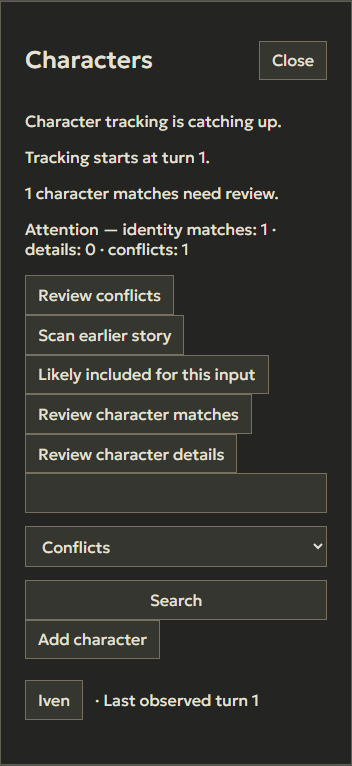
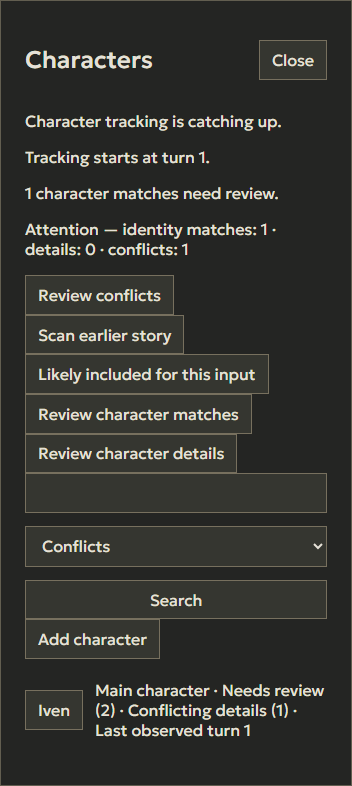
Fix character review counts and refresh races

diff --git a/apps/web-next/src/characters-workspace.ts b/apps/web-next/src/characters-workspace.ts
@@ -21,7 +21,7 @@ export function createCharactersWorkspace(document: Document, generationActive: 
   const node = <K extends keyof HTMLElementTagNameMap>(tag: K, text = "") => { const el = document.createElement(tag); el.textContent = text; return el; };
   const button = (text: string, action: () => void, disabled = false) => { const el = node("button", text); el.type = "button"; el.disabled = disabled; el.addEventListener("click", action); return el; };
   const discard = () => !(editor?.dirty || profileEditor?.form.dirty) || (document.defaultView?.confirm("Discard unsaved character changes?") ?? false);
-  function close() { if (!discard() || editor?.saving || profileEditor?.saving) return; openEpoch++; editor = null; profileEditor = null; reviewing = false; session.close(); operationKeys.clear(); dialog.close(); focus?.focus(); }
+  function close() { if (editor?.saving || profileEditor?.saving || !discard()) return; openEpoch++; editor = null; profileEditor = null; reviewing = false; session.close(); operationKeys.clear(); dialog.close(); focus?.focus(); }
   function render() {
     if (!state || !dialog.open || reviewing || profileEditor) return;
     if (editor) { if (state.changedWhileEditing && !dialog.querySelector("[data-stale]")) { const notice = node("p", "This character changed while you were editing. Your draft is preserved; compare the latest before saving."); notice.dataset.stale = ""; dialog.prepend(notice); } return; }
@@ -84,7 +84,7 @@ export function createCharactersWorkspace(document: Document, generationActive: 
     const roster = node("ul"); for (const person of state.characters) {
       const item = node("li"), attention = state.attention[person.id];
       const facts = [person.profile["story.role"], characterProvenanceLabel(person), person.pinned ? "Pinned" : "", person.ignored ? "Ignored" : "",
-        attention?.review ? "Needs review" : "", attention?.conflict ? "Conflicting details" : "", `Last observed turn ${person.lastObservedTurn}`,
+        attention?.review ? `Needs review${attention.reviewCount != null ? ` (${attention.reviewCount})` : ""}` : "", attention?.conflict ? `Conflicting details${attention.conflictCount != null ? ` (${attention.conflictCount})` : ""}` : "", `Last observed turn ${person.lastObservedTurn}`,
         person.lastMentionedTurn != null ? `Last mentioned turn ${person.lastMentionedTurn}` : ""].filter(Boolean).join(" · ");
       item.append(button(person.name, () => session.select(person.id)), node("span", ` ${facts}`)); roster.append(item);
     }
@@ -175,34 +175,36 @@ export function createCharactersWorkspace(document: Document, generationActive: 
   /** Edit the main character in the sheet through the existing revisioned profile endpoint. */
   function renderProfileEditor(campaign: string, profile: ProtagonistProfile, message = "") {
     const epoch = openEpoch;
-    dialog.replaceChildren(); const head = node("header"); head.append(node("h2", `Edit ${profile.name}`), button("Close", close)); dialog.append(head);
+    dialog.classList.remove("characters-sheet-layout"); dialog.replaceChildren(); const head = node("header"); const closeButton = button("Close", close); head.append(node("h2", `Edit ${profile.name}`), closeButton); dialog.append(head);
     dialog.append(node("p", `Revision ${profile.revision}. Profile edits apply to future turns only.`));
     const form = node("form"), fields = node("div"); fields.className = "characters-profile-fields";
     const editing = { form: createCharacterProfileForm(fields, profile), saving: false }; profileEditor = editing;
     const status = node("p", message); status.setAttribute("aria-live", "polite");
     const save = node("button", "Save character profile"); save.type = "submit"; save.disabled = generationActive();
-    const cancel = button("Cancel", () => { if (!discard()) return; profileEditor = null; render(); });
+    const cancel = button("Cancel", () => { if (editing.saving || !discard()) return; profileEditor = null; render(); });
+    const setBusy = (busy: boolean) => { editing.saving = busy; save.disabled = busy || generationActive(); cancel.disabled = busy; closeButton.disabled = busy; const reload = form.querySelector<HTMLButtonElement>("[data-load-latest]"); if (reload) reload.disabled = busy; fields.querySelectorAll<HTMLInputElement | HTMLTextAreaElement>("input, textarea").forEach(control => { control.disabled = busy; }); };
     form.append(fields, status, save, cancel); dialog.append(form);
     form.addEventListener("submit", async event => {
       event.preventDefault(); if (profileEditor !== editing || editing.saving) return;
       if (generationActive()) { status.textContent = "Story generation is active. Your edits are kept; save when it finishes."; return; }
-      editing.saving = true; save.disabled = true; status.textContent = "Saving…";
+      setBusy(true); status.textContent = "Saving…";
       try {
         const saved = await saveProfile(campaign, editing.form.update());
-        if (epoch !== openEpoch || state.campaignId !== campaign) return;
+        if (epoch !== openEpoch || state.campaignId !== campaign || profileEditor !== editing) return;
         protagonist = { name: saved.name, profile: saved.profile, revision: saved.revision }; profileEditor = null;
         onProfileSaved(campaign); render();
       } catch (error) {
         if (epoch !== openEpoch || profileEditor !== editing) return;
-        editing.saving = false; save.disabled = generationActive();
+        setBusy(false);
         const code = (error as { statusCode?: number; status?: number }).statusCode ?? (error as { status?: number }).status;
         status.textContent = code === 409 ? "The main character changed elsewhere. Your edits are kept here; load the latest version to start again from it."
           : "Could not save the main character. Your edits are kept.";
         if (code === 409 && !form.querySelector("[data-load-latest]")) {
           const reload = button("Load latest version", async () => {
-            if (!discard()) return;
-            try { const latest = await getProfile(campaign); if (epoch !== openEpoch) return; protagonist = latest; renderProfileEditor(campaign, latest, "Loaded the latest version."); }
-            catch { status.textContent = "Could not load the latest version. Try again."; }
+            if (editing.saving || !discard()) return;
+            setBusy(true); reload.disabled = true;
+            try { const latest = await getProfile(campaign); if (epoch !== openEpoch || profileEditor !== editing || state.campaignId !== campaign) return; protagonist = latest; renderProfileEditor(campaign, latest, "Loaded the latest version."); }
+            catch { if (epoch !== openEpoch || profileEditor !== editing) return; setBusy(false); reload.disabled = false; status.textContent = "Could not load the latest version. Try again."; }
           }); reload.dataset.loadLatest = ""; form.append(reload);
         }
       }
@@ -210,6 +212,6 @@ export function createCharactersWorkspace(document: Document, generationActive: 
     fields.querySelector<HTMLElement>("input, textarea")?.focus();
   }
   dialog.addEventListener("cancel", event => { event.preventDefault(); close(); });
-  return { open(campaignId: string, returnFocus?: HTMLElement | null) { openEpoch++; protagonist = null; protagonistLoading = false; focus = returnFocus ?? document.activeElement as HTMLElement | null; editor = null; reviewing = false; dialog.showModal(); session.open(campaignId); }, dispose() { openEpoch++; session.dispose(); dialog.remove(); } };
+  return { open(campaignId: string, returnFocus?: HTMLElement | null) { openEpoch++; protagonist = null; protagonistLoading = false; focus = returnFocus ?? document.activeElement as HTMLElement | null; editor = null; profileEditor = null; reviewing = false; dialog.showModal(); session.open(campaignId); }, dispose() { openEpoch++; session.dispose(); dialog.remove(); } };
 }
 

diff --git a/packages/client-web/src/characters-workspace-session.ts b/packages/client-web/src/characters-workspace-session.ts
@@ -1,4 +1,4 @@
-import { DEFAULT_RECENT_WINDOW_TURNS, matchesLocalCharacterFilter } from "@infinite-quest/client-core";
+import { NexusApiError, DEFAULT_RECENT_WINDOW_TURNS, matchesLocalCharacterFilter } from "@infinite-quest/client-core";
 import type { CharacterFilter, CastDetail, CastCharacter, CharactersWorkspaceStatus } from "@infinite-quest/contracts";
 
 export interface CharactersWorkspaceState<Draft = unknown> {
@@ -8,7 +8,7 @@ export interface CharactersWorkspaceState<Draft = unknown> {
   /** Accepted-turn window the server used for the Recent filter. */
   recentWindow: number;
   /** Server-reported review/conflict markers by character ID; absent on older servers. */
-  attention: Record<string, { review: boolean; conflict: boolean }>;
+  attention: Record<string, { review: boolean; conflict: boolean; reviewCount?: number | undefined; conflictCount?: number | undefined }>;
   selectedId: string | null;
   detail: CastDetail | null;
   draft: Draft | null;
@@ -20,7 +20,7 @@ export interface CharactersWorkspaceState<Draft = unknown> {
 export interface CharactersWorkspaceSessionOptions<Draft> {
   api: {
     workspaceStatus(campaignId: string, signal?: AbortSignal): Promise<CharactersWorkspaceStatus>;
-    list(campaignId: string, input: { query: string; filter: CharacterFilter; cursor?: string; expectedRevision?: number; expectedTurnNumber?: number; expectedTimelineRevision?: number }, signal?: AbortSignal): Promise<{ revision: number; boundary: { turnNumber: number; timelineRevision: number }; characters: CastCharacter[]; nextCursor: string | null; recentWindow?: number | undefined; attention?: { characterId: string; review: boolean; conflict: boolean }[] | undefined }>;
+    list(campaignId: string, input: { query: string; filter: CharacterFilter; cursor?: string; expectedRevision?: number; expectedTurnNumber?: number; expectedTimelineRevision?: number }, signal?: AbortSignal): Promise<{ revision: number; boundary: { turnNumber: number; timelineRevision: number }; characters: CastCharacter[]; nextCursor: string | null; recentWindow?: number | undefined; attention?: { characterId: string; review: boolean; conflict: boolean; reviewCount?: number | undefined; conflictCount?: number | undefined }[] | undefined }>;
     detail(campaignId: string, id: string, signal?: AbortSignal): Promise<CastDetail>;
   };
   schedule?: { set(callback: () => void, delay: number): unknown; clear(handle: unknown): void; visible(): boolean; onVisibilityChange(callback: () => void): () => void };
@@ -55,10 +55,16 @@ export function createCharactersWorkspaceSession<Draft = unknown>({ api, schedul
         for (let attempt = 0; ; attempt++) {
           let cursor: string | undefined, consistent = true; characters = []; attention = {};
           do {
-            const page = await api.list(campaignId, { query, filter: status.legacyServer ? "all" : filter, ...(cursor ? status.legacyServer ? { cursor } : { cursor, expectedRevision: status.revision, expectedTurnNumber: status.boundary.turnNumber, expectedTimelineRevision: status.boundary.timelineRevision } : {}) }, abort.signal);
+            let page: Awaited<ReturnType<typeof api.list>>;
+            try {
+              page = await api.list(campaignId, { query, filter: status.legacyServer ? "all" : filter, ...(cursor ? status.legacyServer ? { cursor } : { cursor, expectedRevision: status.revision, expectedTurnNumber: status.boundary.turnNumber, expectedTimelineRevision: status.boundary.timelineRevision } : {}) }, abort.signal);
+            } catch (error) {
+              if (!(error instanceof NexusApiError) || error.domainCode !== "cast_revision_conflict") throw error;
+              consistent = false; break;
+            }
             if (!sameBoundary(page)) { consistent = false; break; }
             recentWindow = page.recentWindow ?? DEFAULT_RECENT_WINDOW_TURNS;
-            for (const item of page.attention ?? []) attention[item.characterId] = { review: item.review, conflict: item.conflict };
+            for (const item of page.attention ?? []) attention[item.characterId] = { review: item.review, conflict: item.conflict, reviewCount: item.reviewCount, conflictCount: item.conflictCount };
             characters.push(...page.characters); cursor = page.nextCursor ?? undefined;
           } while (cursor);
           if (consistent) break;

diff --git a/tests/e2e/campaign-cast.e2e.test.ts b/tests/e2e/campaign-cast.e2e.test.ts
@@ -241,7 +241,7 @@ async function fixture(page: Page, deferredDetails = false, conflictFixture = fa
       const matches = characters.filter((c) => (url.searchParams.get("filter") !== "conflicts" || c.id === (conflictFixture ? candidateId : protagonistId)) && [c.name, ...c.aliases].some((name: string) => name.toLowerCase().includes(query)));
       const cursor = url.searchParams.get("cursor"), offset = cursor ? matches.findIndex((person) => person.id === cursor) + 1 : 0;
       const page = matches.slice(offset, offset + 2);
-      return send(route, { revision, boundary, characters: page,
+      return send(route, { revision, boundary, characters: page, attention: page.filter((person) => person.id === protagonistId).map((person) => ({ characterId: person.id, review: true, conflict: true, reviewCount: 2, conflictCount: 1 })),
         nextCursor: offset + page.length < matches.length ? page.at(-1).id : null, capabilities: { castEditing: enabled } });
     }
     if (path === "/api/v1/session") return send(route, { user: { id: worldId, displayName: "Fixture owner", settings: { autoSubmitTurnChoices: true, continuousReading: false, defaultTurnControlStyle: "flexible_action" } }, authentication: "deferred" });
@@ -482,6 +482,7 @@ for (const surface of ["legacy", "next"] as const) for (const width of [1440, 39
   await expect(dialog).toContainText("conflicts: 1");
   await dialog.getByRole("button", { name: "Review conflicts", exact: true }).click();
   await expect(dialog.getByRole("button", { name: "Iven", exact: true })).toBeVisible();
+  if (surface === "next") await expect(dialog).toContainText("Needs review (2)");
   if (screenshotRoot) await dialog.screenshot({ path: `${screenshotRoot}/roster-${surface}-${width}.png` });
   await dialog.getByRole("button", { name: "Likely included for this input", exact: true }).click();
   await dialog.getByRole("button", { name: "Refresh estimate", exact: true }).click(); await expect(dialog).toContainText("Estimate at turn 1");
@@ -500,10 +501,24 @@ for (const surface of ["legacy", "next"] as const) for (const width of [1440, 39
   await expect(profile.getByText("Profile JSON", { exact: true })).toHaveCount(0);
   if (screenshotRoot) await profile.screenshot({ path: `${screenshotRoot}/profile-${surface}-${width}.png` });
   await profile.getByLabel("Pronouns", { exact: true }).fill("they/them");
+  let releaseSave: (() => void) | undefined;
+  if (surface === "next" && width === 1440) {
+    const gate = new Promise<void>(resolve => { releaseSave = resolve; });
+    await page.route(`**/character-profile`, async route => {
+      if (route.request().method() !== "PUT") return route.fallback();
+      await gate; return route.fallback();
+    });
+  }
   await profile.getByRole("button", { name: /Save character profile/i }).click();
+  if (releaseSave) {
+    await expect(profile.getByRole("button", { name: "Cancel", exact: true })).toBeDisabled();
+    await expect(profile.getByRole("button", { name: "Close", exact: true })).toBeDisabled();
+    await expect(profile.getByLabel("Pronouns", { exact: true })).toBeDisabled();
+    releaseSave();
+  }
   await expect.poll(() => api.profileWrites.length).toBe(1);
   expect(api.profileWrites[0].profile.identity.pronouns).toBe("they/them");
-  if (surface === "next") await expect(dialog.getByRole("button", { name: "Edit main character", exact: true })).toBeVisible();
+  if (surface === "next") { await expect(dialog.getByRole("button", { name: "Edit main character", exact: true })).toBeVisible(); await expect(dialog).toContainText("they/them"); }
 });
 
 for (const surface of ["legacy", "next"] as const) test(`shared review and undo ${surface}`, async ({ page }) => {

diff --git a/packages/database/src/campaign-cast-repository.ts b/packages/database/src/campaign-cast-repository.ts
@@ -530,10 +530,19 @@ export function createPostgresCampaignCastRepository(pool: DatabasePool, options
             AND n.correction_revision=(p.source->>'narrationRevision')::integer
             AND encode(digest(n.effective_narration,'sha256'),'hex')=p.source->>'sourceHash'`,
         [scope.campaignId, scope.ownerUserId, boundary.timelineRevision, boundary.turnNumber])).rows;
-        const reviewIds = new Set<string>(), conflictIds = new Set<string>(); let identities = 0, details = 0, conflicts = 0;
+        const reviewIds = new Set<string>(), conflictIds = new Set<string>();
+        const attentionCounts: Record<string, { review: number; conflict: number }> = {};
+        const addAttention = (id: string, review: number, conflict = 0) => {
+          const count = attentionCounts[id] ??= { review: 0, conflict: 0 };
+          count.review += review; count.conflict += conflict;
+        };
+        let identities = 0, details = 0, conflicts = 0;
         for (const row of rows) {
           const id = row.resolution_receipt?.result?.character?.id ?? row.proposal?.existingCharacterId;
-          if (id && (!row.resolution_receipt || row.pending_indexes.length) && projected.snapshot.characters.some(person => person.id === id)) reviewIds.add(id);
+          if (id && (!row.resolution_receipt || row.pending_indexes.length) && projected.snapshot.characters.some(person => person.id === id)) {
+            reviewIds.add(id);
+            addAttention(id, row.resolution_receipt ? row.pending_indexes.length : 1);
+          }
           if (!row.resolution_receipt) identities++;
           else {
             details += row.pending_indexes.length;
@@ -557,12 +566,12 @@ export function createPostgresCampaignCastRepository(pool: DatabasePool, options
             if (item.mode !== "fact" || superseded.has(item.id) || item.field.startsWith("state.") || item.field === "story.goals") continue;
             const values = fields.get(item.field) ?? new Set<string>(); values.add(item.value); fields.set(item.field, values);
           }
-          for (const [field, values] of fields) if (values.size > 1 && !detail.overrides.some(item => item.field === field)) { conflicts++; reviewIds.add(detail.characterId); conflictIds.add(detail.characterId); }
+          for (const [field, values] of fields) if (values.size > 1 && !detail.overrides.some(item => item.field === field)) { conflicts++; reviewIds.add(detail.characterId); conflictIds.add(detail.characterId); addAttention(detail.characterId, 1, 1); }
         }
         const levels = ["r1", "r2", "r3"];
         const context = options.castContextEnabled === true && !!enrollment && !!options.storyMemoryCapability
           && levels.indexOf(options.storyMemoryCapability) >= levels.indexOf(enrollment.capability);
-        const value = { snapshot: projected.snapshot, reviewIds: [...reviewIds], conflictIds: [...conflictIds], status: {
+        const value = { snapshot: projected.snapshot, reviewIds: [...reviewIds], conflictIds: [...conflictIds], attentionCounts, status: {
           revision: state.revision, boundary, capabilities: { editing: options.editingEnabled === true,
             discovery: options.discoveryEnabled === true, autoMatch: options.castAutoMatchEnabled === true && options.discoveryEnabled === true && options.editingEnabled === true, backfill: options.backfillEnabled === true,
             context }, contextDisabledReason: context ? null : "Story Memory or character context is unavailable.",

diff --git a/tests/unit/characters-workspace-session.test.ts b/tests/unit/characters-workspace-session.test.ts
@@ -1,3 +1,4 @@
+import { NexusApiError } from "../../packages/client-core/src/errors.js";
 import { describe, expect, it, vi } from "vitest";
 import { createCharactersWorkspaceSession } from "../../packages/client-web/src/characters-workspace-session.js";
 
@@ -30,4 +31,27 @@ describe("characters workspace refresh", () => {
     expect(states).toHaveLength(notifications);
     session.dispose(); vi.useRealTimers();
   });
+  it("restarts once on a rejected later page and preserves the roster if it changes again", async () => {
+    const boundary = { turnNumber: 1, timelineRevision: 0 };
+    let revision = 1, failEveryPage = false, calls = 0;
+    const states: any[] = [];
+    const status = () => ({ revision, boundary, capabilities: { editing: true, discovery: false, autoMatch: false, backfill: false, context: false }, contextDisabledReason: null, counts: { identities: 0, details: 0, conflicts: 0 }, tracking: null });
+    const session = createCharactersWorkspaceSession({ api: {
+      workspaceStatus: async () => status(),
+      list: async (_campaign, input) => {
+        calls++;
+        if (input.cursor || failEveryPage) { revision++; throw new NexusApiError("Changed", { statusCode: 409, domainCode: "cast_revision_conflict" }); }
+        return { revision, boundary, characters: [], nextCursor: revision === 1 ? "next" : null };
+      }, detail: async () => { throw new Error("No selection"); }
+    }, onChange: state => states.push(state) });
+    try {
+      session.open("campaign");
+      await vi.waitFor(() => expect(states.at(-1)?.status?.revision).toBe(2));
+      expect(calls).toBe(3); expect(states.at(-1).error).toBeNull();
+      failEveryPage = true; calls = 0; await session.refresh();
+      expect(calls).toBe(2); expect(states.at(-1).status.revision).toBe(2);
+      expect(states.at(-1).error).not.toBeNull();
+    } finally { session.dispose(); }
+  });
+
 });

diff --git a/packages/application/src/campaign-cast/ports.ts b/packages/application/src/campaign-cast/ports.ts
@@ -4,7 +4,7 @@ import type { CreateCastCharacter, EditCastCharacter, CastWriteResult, CastDetai
   CastCandidateList, CastCandidateQuery, ResolveCastCandidate, CastCandidateResolution } from "@infinite-quest/contracts";
 
 export interface CampaignCastWritePort {
-  workspaceRead?(scope: CastScope, statusOnly?: boolean): Promise<{ snapshot: CastSnapshot; reviewIds: string[]; conflictIds: string[]; status: import("@infinite-quest/contracts").CharactersWorkspaceStatus }>;
+  workspaceRead?(scope: CastScope, statusOnly?: boolean): Promise<{ snapshot: CastSnapshot; reviewIds: string[]; conflictIds: string[]; attentionCounts?: Record<string, { review: number; conflict: number }>; status: import("@infinite-quest/contracts").CharactersWorkspaceStatus }>;
   detachAttachment(scope: CastScope, characterId: string, eventId: string, request: import("@infinite-quest/contracts").DetachCastAttachment): Promise<import("@infinite-quest/contracts").DetachCastAttachmentResult>;
   resolveDetail?(scope: CastScope, id: string, request: ReviewCastDetail): Promise<ReviewCastDetailResult>;
   candidates(scope: CastScope, query: Partial<CastCandidateQuery>): Promise<CastCandidateList>;

diff --git a/packages/application/src/campaign-cast/use-cases.ts b/packages/application/src/campaign-cast/use-cases.ts
@@ -61,7 +61,8 @@ export function createCampaignCastApplication(repository: CampaignCastWritePort,
       if (query.cursor && offset === 0) throw new CampaignCastError("cast_revision_conflict");
       const characters = matches.slice(offset, offset + query.limit);
       const attention = characters.map((person) => ({ characterId: person.id, review: workspace?.reviewIds.includes(person.id) === true,
-        conflict: workspace?.conflictIds.includes(person.id) === true })).filter((item) => item.review || item.conflict);
+        conflict: workspace?.conflictIds.includes(person.id) === true,
+        ...(workspace?.attentionCounts?.[person.id] ? { reviewCount: workspace.attentionCounts[person.id]!.review, conflictCount: workspace.attentionCounts[person.id]!.conflict } : {}) })).filter((item) => item.review || item.conflict);
       return { ...value, characters, attention, recentWindow: 10, nextCursor: offset + characters.length < matches.length ? characters.at(-1)!.id : null };
     },
     async detail(scope: CastScope, id: string) {

diff --git a/tests/integration/campaign-cast-discovery.integration.test.ts b/tests/integration/campaign-cast-discovery.integration.test.ts
@@ -485,6 +485,10 @@ describe("durable cast discovery", () => {
       expect((await editor.current(f.scope)).characters.filter(person => person.name === "Mara")).toHaveLength(1);
       const row = (await pool.query("SELECT status,proposal FROM campaign_cast_discovery_candidates WHERE id=$1", [candidate.id])).rows[0];
       expect(row).toEqual({ status: "pending", proposal: output.characters[0] });
+      const listed = await app.inject({ method: "GET", url: `/api/v1/campaigns/${f.scope.campaignId}/cast` });
+      expect(listed.statusCode).toBe(200);
+      expect(listed.json().attention).toContainEqual({ characterId: saved.character.id, review: true, conflict: false,
+        reviewCount: allDisputed ? 2 : 1, conflictCount: 0 });
       const detailInbox = await editor.candidates(f.scope, { view: "details" });
       const detail = detailInbox.candidates[0]!.details!.find(item => item.observationIndex === 1)!;
       expect(detail).toMatchObject({ field: "story.role", value: "the gatekeeper", observationIndex: 1 });

diff --git a/packages/client-web/src/campaign-cast-api.ts b/packages/client-web/src/campaign-cast-api.ts
@@ -15,7 +15,7 @@ import { castBackfillRequestSchema, castBackfillPreviewSchema, castBackfillProgr
 
 const capabilities = z.object({ castEditing: z.boolean() });
 export const castListResponseSchema = castSnapshotSchema.extend({ nextCursor: z.uuid().nullable(), recentWindow: z.number().int().positive().optional(), capabilities,
-  attention: z.array(z.object({ characterId: z.uuid(), review: z.boolean(), conflict: z.boolean() }).strict()).max(50).optional() });
+  attention: z.array(z.object({ characterId: z.uuid(), review: z.boolean(), conflict: z.boolean(), reviewCount: z.number().int().nonnegative().optional(), conflictCount: z.number().int().nonnegative().optional() }).strict()).max(50).optional() });
 export const castDetailResponseSchema = castDetailSchema.extend({ capabilities });
 export function createCampaignCastApi(options: NexusHttpClientOptions = {
   basePath: "/api/v1", session: { authorization: async () => ({}), onUnauthorized: async () => false }

diff --git a/docs/review/campaign-cast/revamp-acceptance.md b/docs/review/campaign-cast/revamp-acceptance.md
@@ -57,10 +57,20 @@ Live text/image providers, paid scans, production enablement and copied-campaign
 A post-implementation review found the issues below; the [fix plan](../../superpowers/plans/2026-11-06-characters-revamp-fixes.md) records them. All are fixed in the follow-up commit:
 
 - Lexical mention tracking now runs only while `CAST_AUTO_MATCH_ENABLED` is effective, on accepted turns and narration corrections. Before, it ran whatever the flags said.
-- Migration `0120` uses statement-level triggers. Discovery-job lease and checkpoint writes, and turn updates other than narration changes, no longer bump the workspace revision. Migrations `0118`–`0120` refuse to roll back while they hold data, and otherwise reverse cleanly.
+- Migration `0120` uses statement-level triggers. Discovery-job lease and checkpoint writes, and turn updates other than narration changes, no longer bump the workspace revision. Migrations `0118` and `0119` refuse to roll back while they hold review data. Migration `0120` removes only its operational counter and invalidation triggers on rollback.
 - The replacement client's roster shows provenance, Pinned/Ignored and server-reported Needs review / Conflicting details markers. Both clients label the Recent filter with the server's window.
 - The replacement client edits the main character inside the Characters sheet through the revisioned `/character-profile` endpoint. A conflict keeps the draft.
 - The roster filter predicate now lives in `client-core`. Sheet locks list manually corrected fields. A revision change during pagination restarts once immediately. The lexical matcher merges a name with a longer alias of the same character, and it skips sentence-initial common-word names.
 - Screenshots moved to `docs/review/assets/characters-revamp/`. The e2e profile fixture now returns the strict update response shape. Before, a failed save went unnoticed because the test only checked that a request was sent.
 
 Fix-round verification (2026-11-06): `pnpm check`, client-boundary check, `pnpm build` and the whitespace check passed. 16 affected unit files passed (521 tests). Eleven focused PostgreSQL files passed: cast lifecycle, discovery, API, generation, portability, migrations, generation execution, generation, narration corrections, generation events and the adapter matrix. That is 235 tests, with 6 existing Windows filesystem-staging skips not counted as passing. The cast Playwright suite passed 26/26. The full unit and full integration suites were not rerun in this round.
+
+## Publication review
+
+Reviewed the other agent's `c6466249...8c953a1a` update against the plans and repository rules before publishing. No additional trigger, lexical-gating or authority-boundary defect was found in that review. Three follow-up corrections are included:
+
+- A server-rejected `cast_revision_conflict` during pagination now restarts once with fresh status. Repeated conflicts retain the last successful roster and enter the existing backoff. The new case in the existing session suite failed before the fix and passed afterward.
+- Each character's attention response now includes optional review/conflict counts, which the replacement roster displays. Existing scoped caching and older-server boolean fallbacks remain intact.
+- The new in-sheet protagonist editor blocks cancellation and further edits while saving/loading, guards responses by editor identity, resets on opening another campaign and clears the sheet grid when opening the form. Its existing browser journey now delays the save and verifies the stored value after completion.
+
+Publication verification: `pnpm check`, `pnpm build`, client-boundary check and 19 focused application/API/session/matcher unit tests passed. The existing PostgreSQL discovery suite passed 59/59 after the count change. The full existing cast Playwright suite passed 26/26 after the follow-up, including delayed-save guards, persisted profile values and roster review counts. Desktop/mobile roster and in-sheet profile screenshots were refreshed. No new test suite or migration was added in this round. Earlier complete-suite results above remain baseline evidence; only affected checks were repeated for this publication review.
